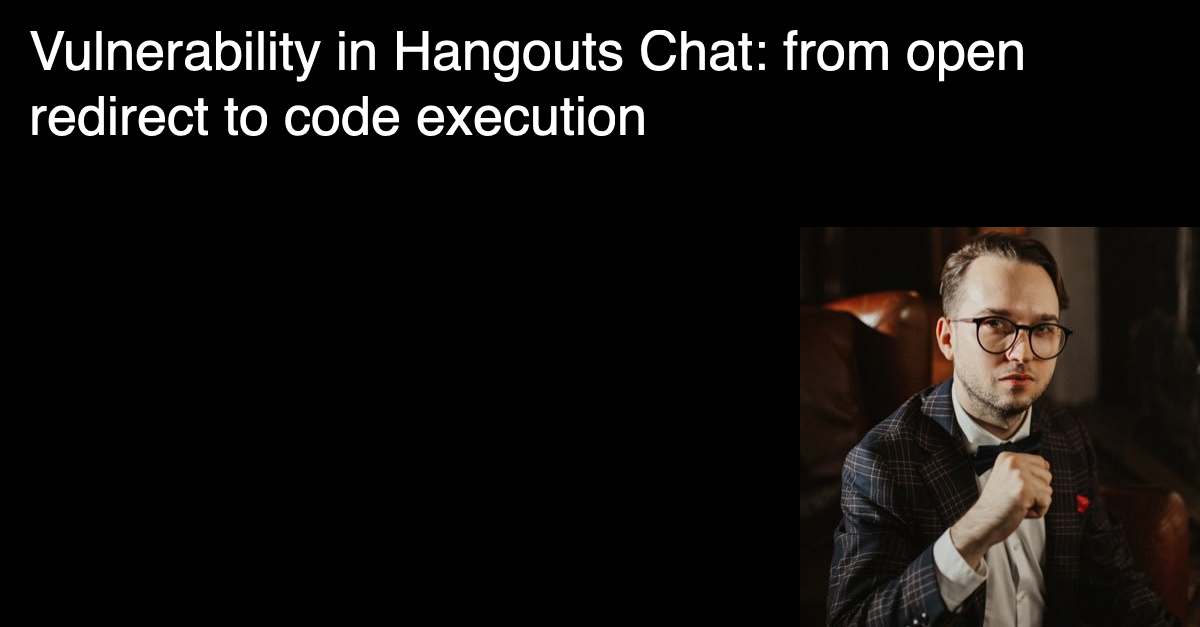
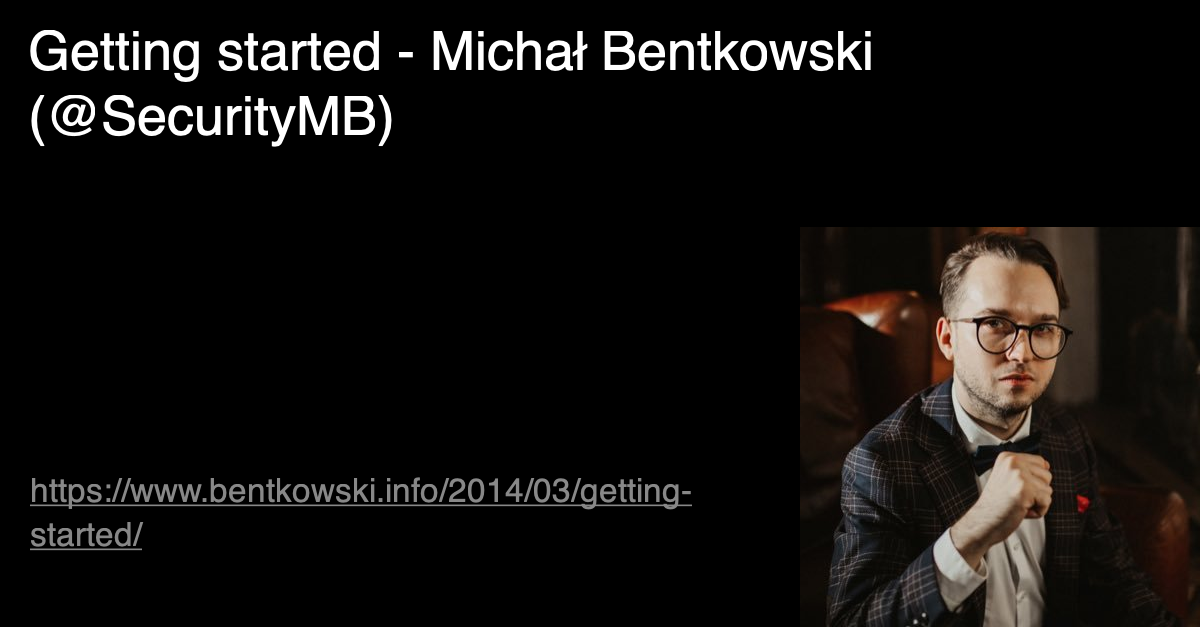
Testing version of og-image

Changed region(s): [[0.0, 0.0303, 0.8633, 0.2424], [0.0308, 0.7576, 0.5858, 0.8788], [0.0308, 0.1515, 0.1233, 0.2424]]

diff --git a/src/og-image.ts b/src/og-image.ts
@@ -1,16 +1,25 @@
 import type { AstroConfig, AstroIntegration } from "astro";
 import sharp from "sharp";
-import { OG_IMAGE_SIZE, ORIGIN } from "./config";
-import type { BlogPostInfo } from "./types";
+import { OG_IMAGE_SIZE } from "./config";
 import { fileURLToPath } from "node:url";
+import { readFile, mkdir } from "node:fs/promises";
+import { join } from "node:path";
+
+type OgImageData = {
+  title: string;
+  url: string;
+  slug: string;
+};
 
 function htmlentities(s: string) {
   return s.replace(/[<&"]/g, (c) => `&#${c.codePointAt(0)};`);
 }
 
-async function generateImage(blogPost: BlogPostInfo) {
-  const url = `${ORIGIN}${blogPost.canonicalUrl}`;
-
+async function generateImage(
+  { url, title, slug }: OgImageData,
+  baseDir: string
+) {
+  const outputPath = join(baseDir, `${slug}.png`);
   await sharp({
     create: {
       background: "black",
@@ -27,7 +36,7 @@ async function generateImage(blogPost: BlogPostInfo) {
       {
         input: {
           text: {
-            text: htmlentities(blogPost.title),
+            text: htmlentities(title),
             width: OG_IMAGE_SIZE.width * 0.85,
             dpi: 325,
             font: "sans",
@@ -41,19 +50,20 @@ async function generateImage(blogPost: BlogPostInfo) {
       {
         input: {
           text: {
-            text: `<u>${htmlentities(url)}</u>`,
-            width: OG_IMAGE_SIZE.width - 400,
-            dpi: 325,
+            text: `<u><span foreground="#888">${htmlentities(url)}</span></u>`,
+            width: OG_IMAGE_SIZE.width - 500,
+            dpi: 200,
             font: "sans",
             spacing: 10,
+            rgba: true,
           },
         },
         gravity: "southeast",
-        top: OG_IMAGE_SIZE.height - 200,
-        left: OG_IMAGE_SIZE.width - 300,
+        top: OG_IMAGE_SIZE.height - 150,
+        left: 30,
       },
     ])
-    .toFile("og-image.png");
+    .toFile(outputPath);
 }
 
 export default function ogImageGenerator(): AstroIntegration {
@@ -65,9 +75,21 @@ export default function ogImageGenerator(): AstroIntegration {
         config = cfg;
       },
       async "astro:build:done"({ routes, dir }) {
-        for (const { distURL, component } of routes) {
+        const baseDir = join(fileURLToPath(dir), "og-images");
+        await mkdir(baseDir, { recursive: true });
+        for (const route of routes) {
+          console.log(route);
+          const { distURL, component } = route;
           if (!distURL) continue;
           if (component !== "src/pages/[year]/[month]/[slug].astro") continue;
+          const path = fileURLToPath(distURL);
+          const html = (await readFile(path)).toString("utf-8");
+          const url =
+            (html.match(/"og:url" content="([^"]+)"/) ?? ["", ""])[1] ?? "";
+          const title =
+            (html.match(/"og:title" content="([^"]+)"/) ?? ["", ""])[1] ?? "";
+          const slug = path.split("/").at(-2) ?? "";
+          await generateImage({ url, title, slug }, baseDir);
         }
       },
     },
